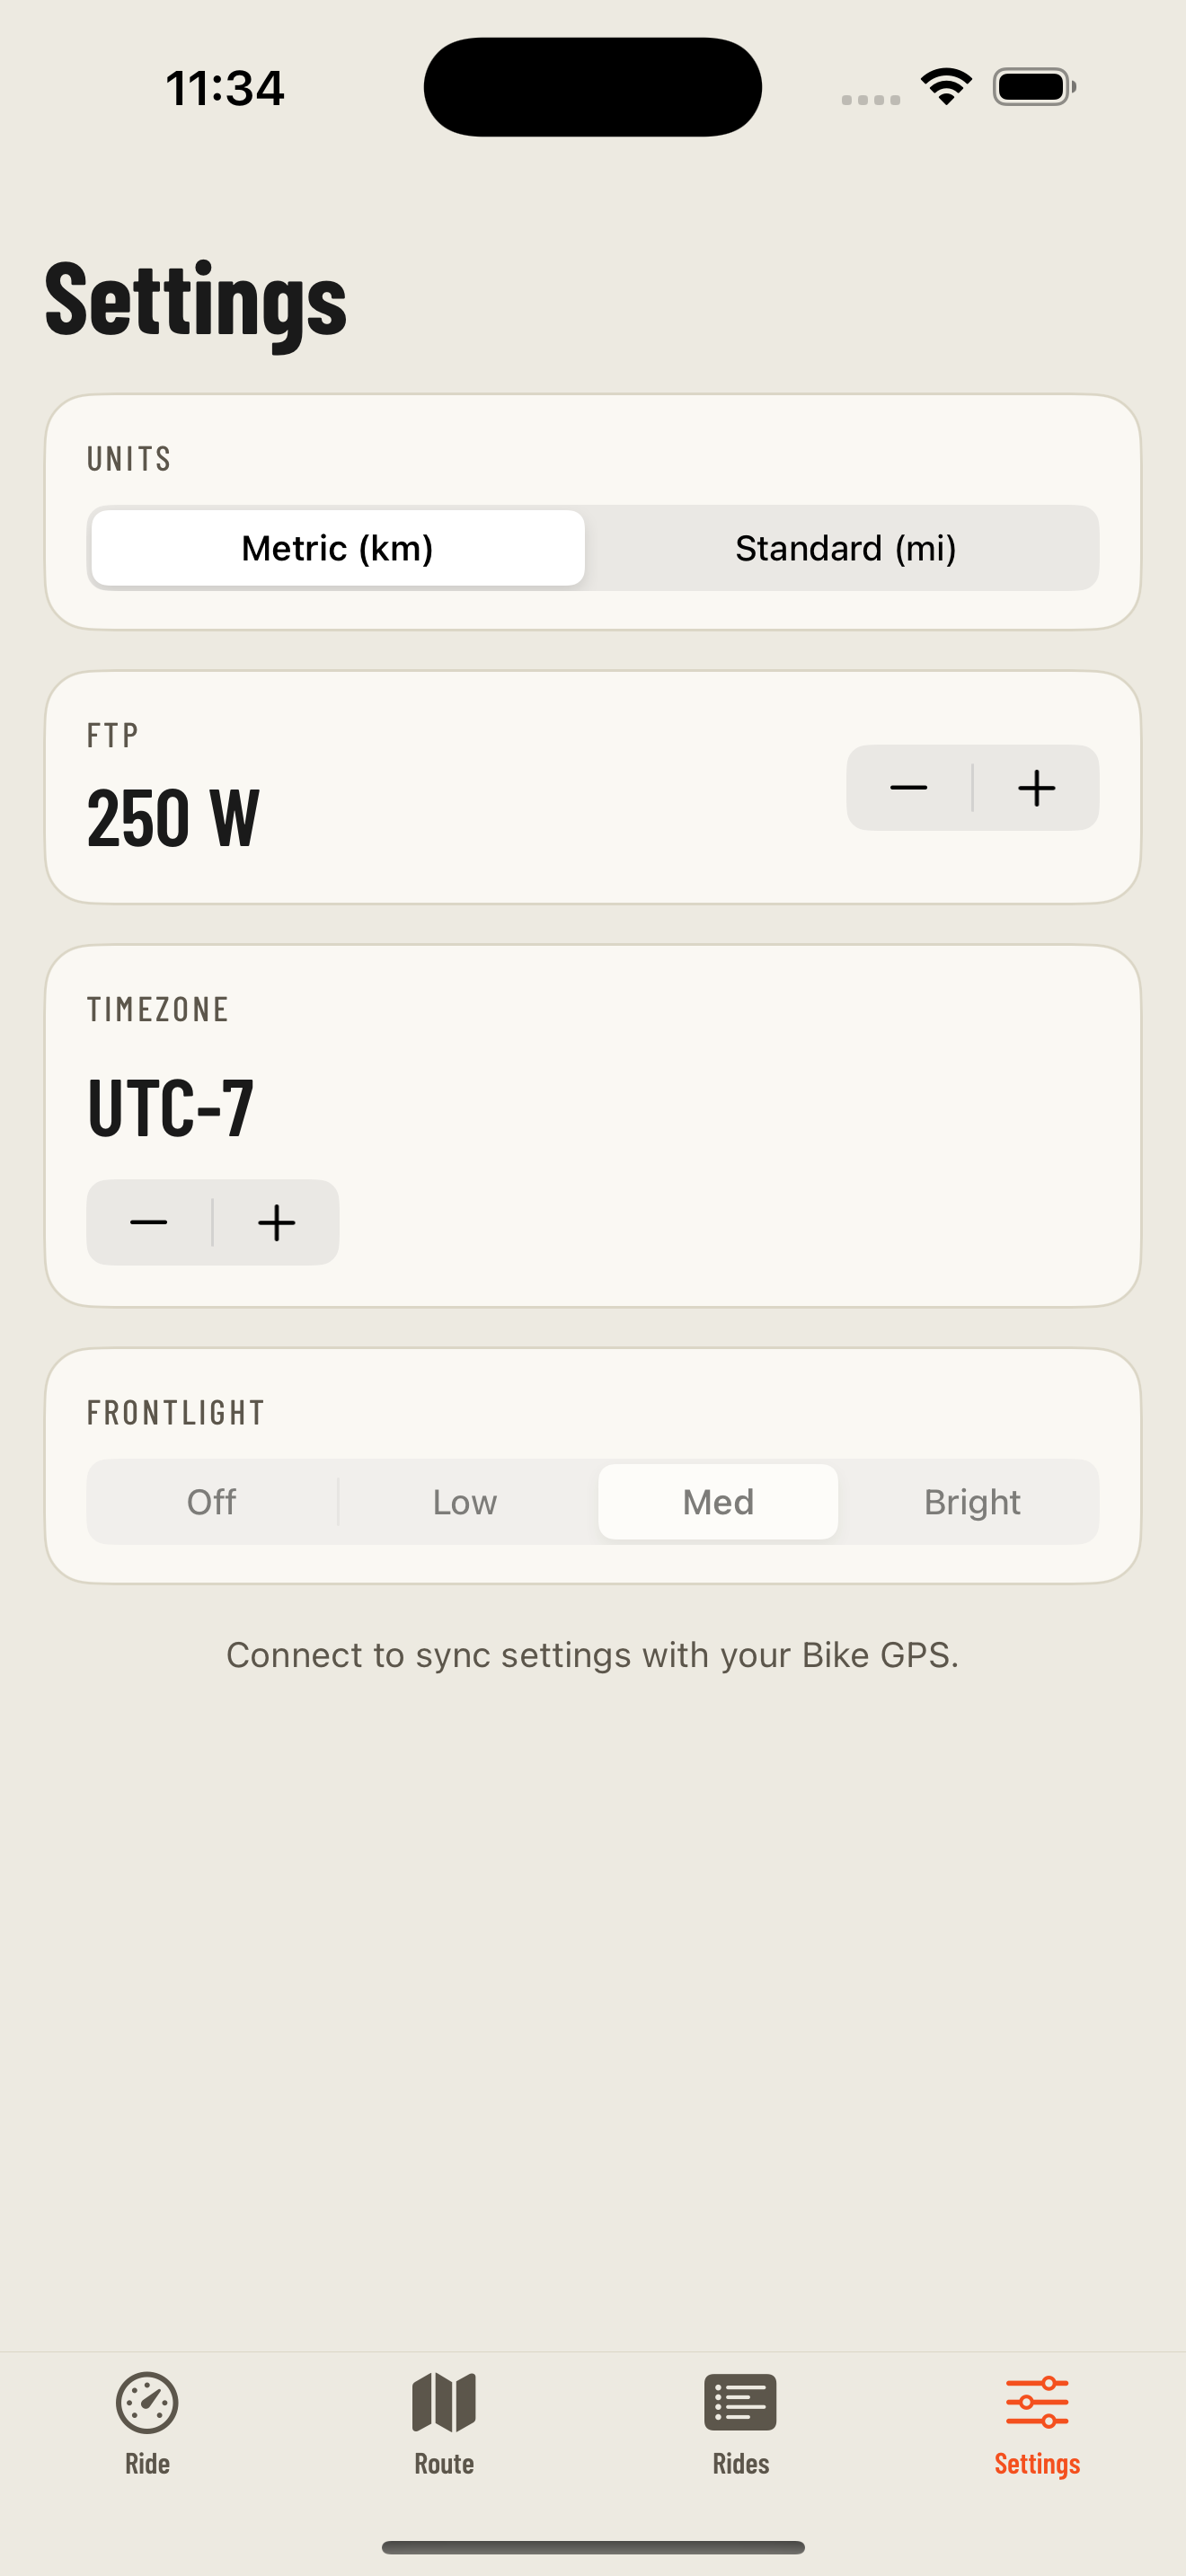
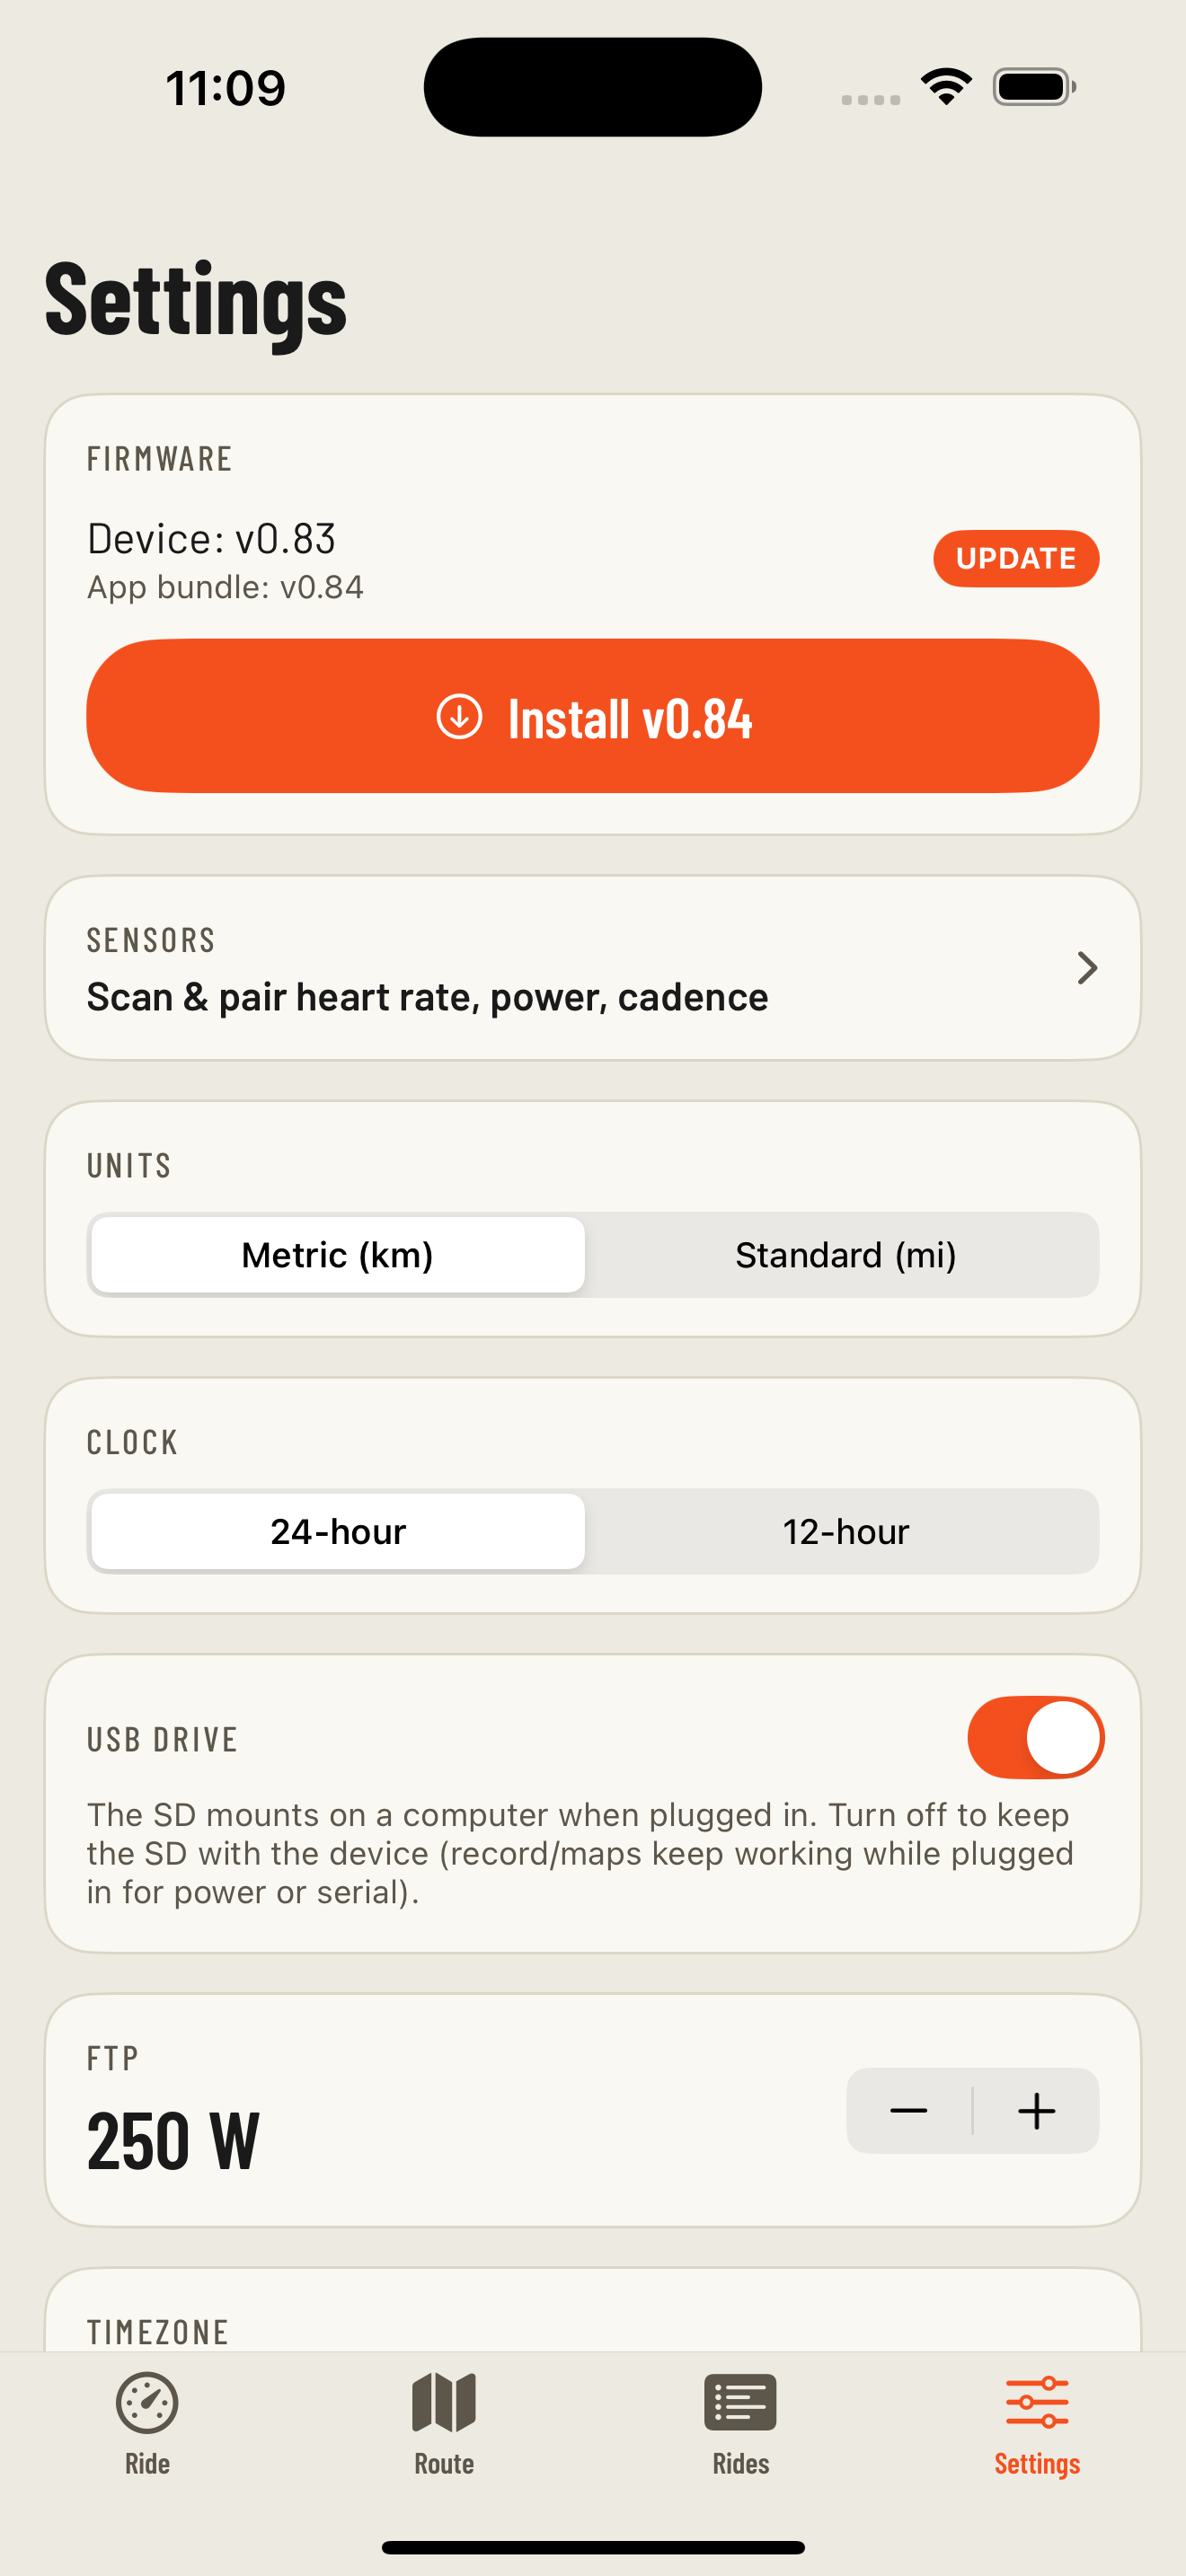
iOS: screenshot demo modes + recapture app screenshots
Add launch-arg demo modes for clean marketing screenshots:
  -demo-route  : RouteModel builds a fixed SF cycling route (no live GPS)
  -demo-rides  : seed a few recent rides into the cache so the Rides list
                 renders with cards (all preview the bundled demo.fit)
  -demo-update : BLEManager poses as connected to a v0.83 device (skips
                 real Bluetooth) so the "Install v0.84" update UI shows

Recaptured route.png / ride.png / settings.png in those states (route
preview, Rides list, update-pending) for the website's app section.

Claude-Session: https://claude.ai/code/session_01G281deiKDWJhag8WQ3YMRV

diff --git a/companion-ios/Sources/RouteView.swift b/companion-ios/Sources/RouteView.swift
@@ -74,7 +74,10 @@ struct RouteView: View {
             .navigationBarHidden(true)
             .sheet(isPresented: $showSaved) { SavedRoutesSheet() }
             .sheet(isPresented: $showMaps) { MapsView() }
-            .onAppear { model.requestLocation() }
+            .onAppear {
+                if ProcessInfo.processInfo.arguments.contains("-demo-route") { model.demoRoute() }
+                else { model.requestLocation() }
+            }
             .onChange(of: model.destinationName) {
                 ble.routeSent = false; ble.routeReceived = false
             }
@@ -191,6 +194,19 @@ final class RouteModel: NSObject, ObservableObject {
                 span: MKCoordinateSpan(latitudeDelta: 0.05, longitudeDelta: 0.05)))
         } else {
             camera = .userLocation(fallback: .automatic)
+        }
+    }
+
+    // Screenshot demo: build a fixed SF route without needing a live location.
+    func demoRoute() {
+        let from = CLLocationCoordinate2D(latitude: 37.7690, longitude: -122.4830)
+        let dest = CLLocationCoordinate2D(latitude: 37.8079, longitude: -122.4177)
+        destination = dest
+        destinationName = "Fisherman's Wharf"
+        calcRoute(from: from, to: dest, type: .cycling) { [weak self] r in
+            if let r { self?.apply(r, mode: "Cycling") }
+            else { self?.calcRoute(from: from, to: dest, type: .walking) { r2 in
+                if let r2 { self?.apply(r2, mode: "Walking") } } }
         }
     }
 

diff --git a/companion-ios/Sources/RidesView.swift b/companion-ios/Sources/RidesView.swift
@@ -174,7 +174,22 @@ struct RidesView: View {
             .background(Palette.paper.ignoresSafeArea())
             .navigationBarHidden(true)
             .onAppear {
-                if ProcessInfo.processInfo.arguments.contains("-demo-ride"),
+                let args = ProcessInfo.processInfo.arguments
+                if args.contains("-demo-rides"),
+                   let url = Bundle.main.url(forResource: "demo", withExtension: "fit"),
+                   let data = try? Data(contentsOf: url) {
+                    // Screenshot demo: seed a few recent rides into the cache so the
+                    // Rides list renders with cards (all preview the bundled demo ride).
+                    let names = ["20260719-071500.fit", "20260718-163000.fit", "20260716-090000.fit"]
+                    let dir = BLEManager.cachedURL(for: "x").deletingLastPathComponent()
+                    for f in (try? FileManager.default.contentsOfDirectory(at: dir, includingPropertiesForKeys: nil)) ?? []
+                        where f.pathExtension == "fit" { try? FileManager.default.removeItem(at: f) }
+                    let preview = FITDecoder.decode(data)
+                    for n in names {
+                        try? data.write(to: BLEManager.cachedURL(for: n))
+                        if let preview { previews.store(preview, for: n) }
+                    }
+                } else if args.contains("-demo-ride"),
                    let url = Bundle.main.url(forResource: "demo", withExtension: "fit"),
                    let data = try? Data(contentsOf: url),
                    let preview = FITDecoder.decode(data) {

diff --git a/companion-ios/Sources/BLEManager.swift b/companion-ios/Sources/BLEManager.swift
@@ -173,9 +173,14 @@ final class BLEManager: NSObject, ObservableObject {
     private var otaChunk = 180
     private var otaCommitSent = false
 
+    // Screenshot demo: pose as connected to an older-firmware device so the
+    // update-pending UI shows, without touching real Bluetooth.
+    private let isDemoUpdate = ProcessInfo.processInfo.arguments.contains("-demo-update")
+
     override init() {
         super.init()
         central = CBCentralManager(delegate: self, queue: .main)
+        if isDemoUpdate { state = .connected; deviceFirmware = "v0.83" }
         locationManager.delegate = self
         locationManager.desiredAccuracy = kCLLocationAccuracyHundredMeters
         // Show last-known on-device tiles immediately; a refresh confirms them.
@@ -942,6 +947,7 @@ final class BLEManager: NSObject, ObservableObject {
 
 extension BLEManager: CBCentralManagerDelegate {
     nonisolated func centralManagerDidUpdateState(_ c: CBCentralManager) {
+        if isDemoUpdate { return }   // demo holds a fake connected state
         MainActor.assumeIsolated {
             switch c.state {
             case .poweredOn: startScan()